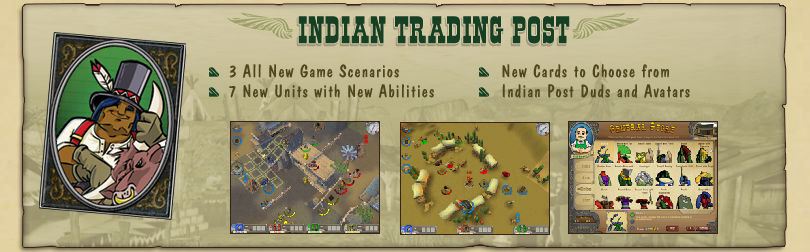
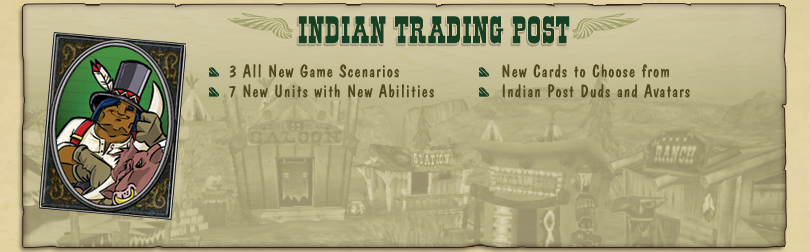
- swapped in ingame shot for featured FT screenshot - fixed duplicated screenshots image for ITP features

Changed region(s): [[0.2778, 0.4722, 0.8951, 0.9444]]

diff --git a/pages/town/frontier.html b/pages/town/frontier.html
@@ -11,8 +11,8 @@
 <div id="AboutFrontier">
     <div id="ContentFrontier">
 <table width="500px" cellpading="0" cellshading="0" border="0">
-<tr><td><a href="/screenshots/index2.html?/images/screenshots/frontier/,2,12">
-         <img src="/images/screenshots/frontier/thumbs/2.png" 
+<tr><td><a href="/screenshots/index2.html?/images/screenshots/frontier/,11,12">
+         <img src="/images/screenshots/frontier/thumbs/11.png" 
          width="150" border="0" alt="" class="thumb"/></a></td>
      <td><a href="/screenshots/index2.html?/images/screenshots/frontier/,10,12">
          <img src="/images/screenshots/frontier/thumbs/10.png" 
